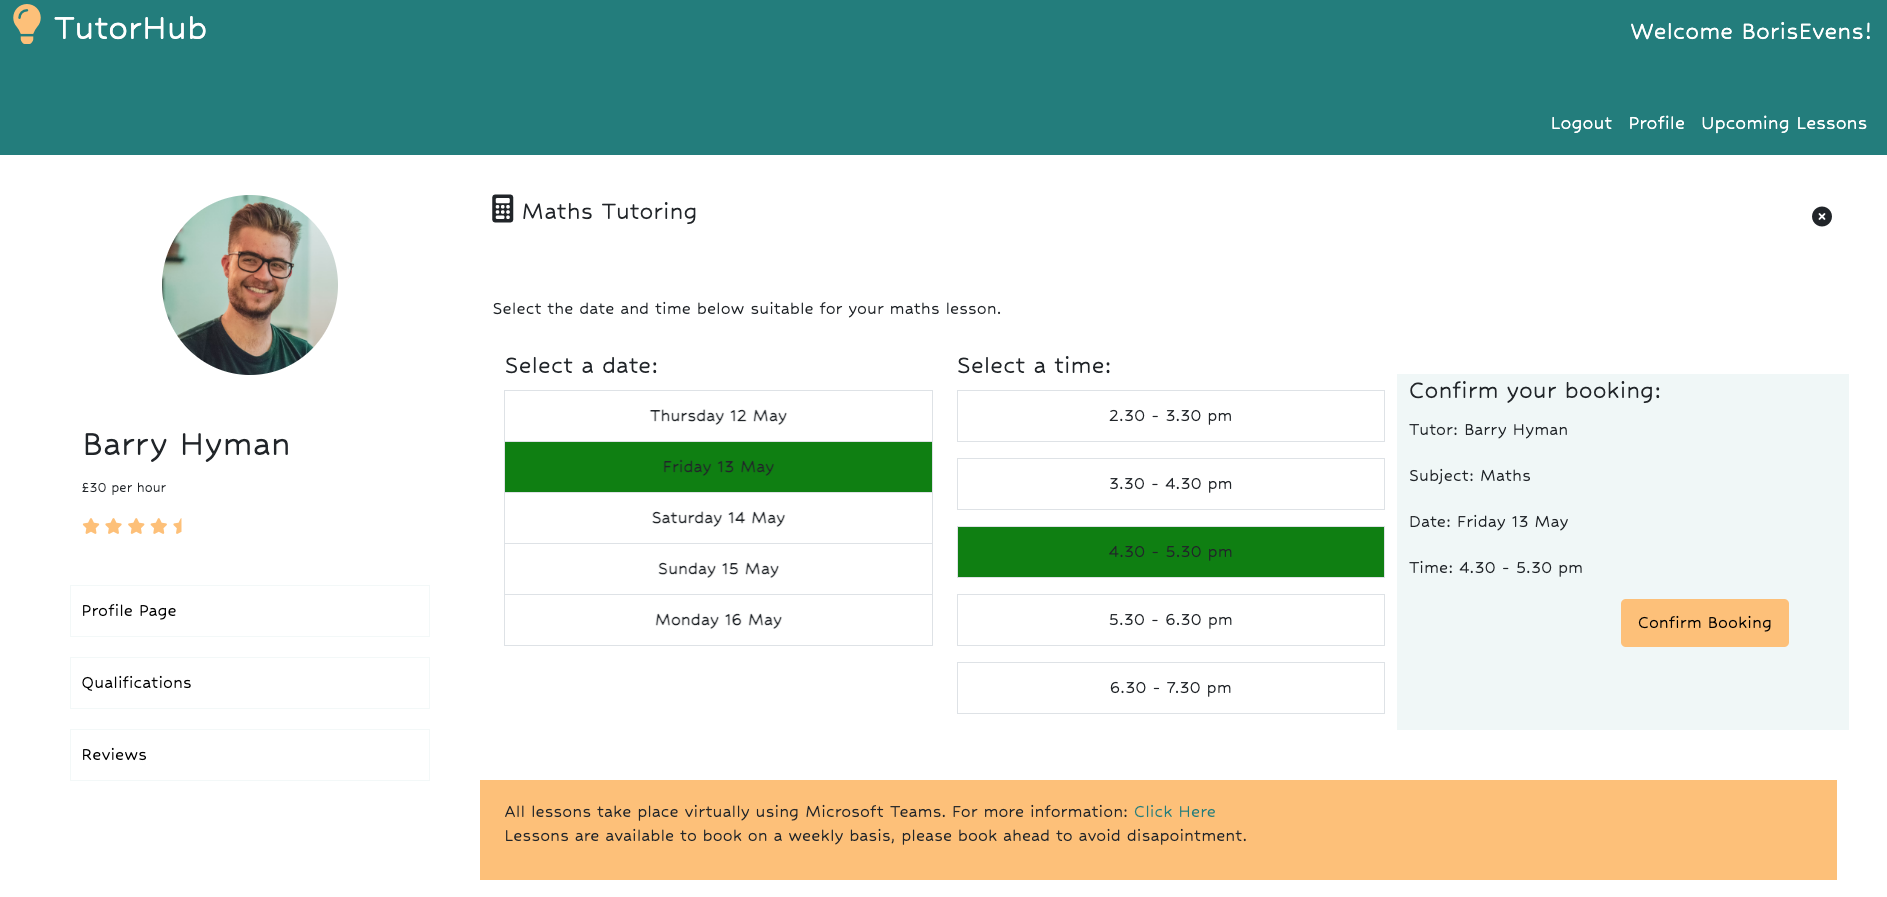
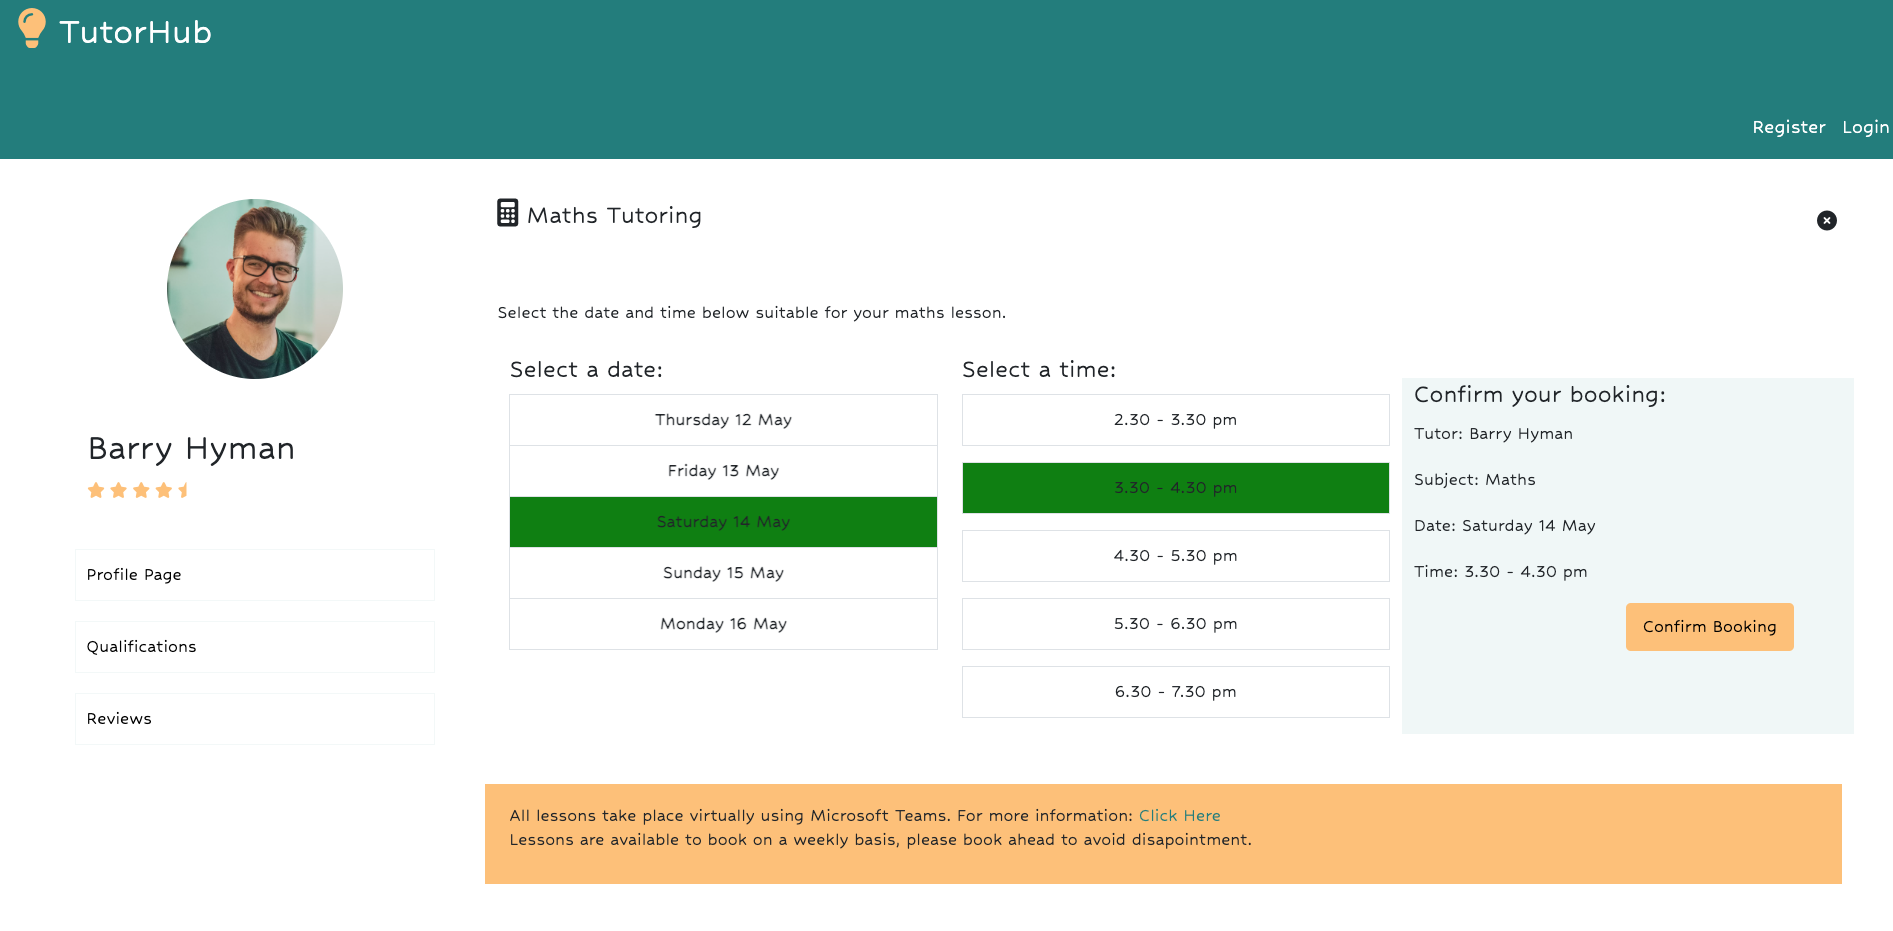
README styling has been added and images have been updated on the README file

diff --git a/tutorprofile/templates/tutorprofile/tutor_two.html b/tutorprofile/templates/tutorprofile/tutor_two.html
@@ -14,7 +14,6 @@
             <div class="row">
                 <div class="col-12 user-info">
                     <h1>Jennifer Roberts</h1>
-                    <p>£20 per hour</p>
                     <i class="fa-solid fa-star"></i>
                     <i class="fa-solid fa-star"></i>
                     <i class="fa-solid fa-star"></i>

diff --git a/tutorprofile/templates/tutorprofile/tutor_two_create_review.html b/tutorprofile/templates/tutorprofile/tutor_two_create_review.html
@@ -15,7 +15,6 @@
             <div class="row">
                 <div class="col-12 user-info">
                     <h1>Jennifer Roberts</h1>
-                    <p>£20 per hour</p>
                     <i class="fa-solid fa-star"></i>
                     <i class="fa-solid fa-star"></i>
                     <i class="fa-solid fa-star"></i>

diff --git a/tutorprofile/templates/tutorprofile/tutor_two_profile.html b/tutorprofile/templates/tutorprofile/tutor_two_profile.html
@@ -14,7 +14,6 @@
             <div class="row">
                 <div class="col-12 user-info">
                     <h1>Jennifer Roberts</h1>
-                    <p>£20 per hour</p>
                     <i class="fa-solid fa-star"></i>
                     <i class="fa-solid fa-star"></i>
                     <i class="fa-solid fa-star"></i>

diff --git a/tutorprofile/templates/tutorprofile/tutor_two_qualifications.html b/tutorprofile/templates/tutorprofile/tutor_two_qualifications.html
@@ -14,7 +14,6 @@
             <div class="row">
                 <div class="col-12 user-info">
                     <h1>Jennifer Roberts</h1>
-                    <p>£20 per hour</p>
                     <i class="fa-solid fa-star"></i>
                     <i class="fa-solid fa-star"></i>
                     <i class="fa-solid fa-star"></i>

diff --git a/tutorprofile/templates/tutorprofile/tutor_two_reviews.html b/tutorprofile/templates/tutorprofile/tutor_two_reviews.html
@@ -14,7 +14,6 @@
             <div class="row">
                 <div class="col-12 user-info">
                     <h1>Jennifer Roberts</h1>
-                    <p>£20 per hour</p>
                     <i class="fa-solid fa-star"></i>
                     <i class="fa-solid fa-star"></i>
                     <i class="fa-solid fa-star"></i>

diff --git a/tutorprofile/templates/tutorprofile/tutor_three.html b/tutorprofile/templates/tutorprofile/tutor_three.html
@@ -14,7 +14,6 @@
             <div class="row">
                 <div class="col-12 user-info">
                     <h1>Mark Macintosh</h1>
-                    <p>£25 per hour</p>
                     <i class="fa-solid fa-star"></i>
                     <i class="fa-solid fa-star"></i>
                     <i class="fa-solid fa-star"></i>

diff --git a/tutorprofile/templates/tutorprofile/tutor_three_create_review.html b/tutorprofile/templates/tutorprofile/tutor_three_create_review.html
@@ -15,7 +15,6 @@
             <div class="row">
                 <div class="col-12 user-info">
                     <h1>Mark Macintosh</h1>
-                    <p>£25 per hour</p>
                     <i class="fa-solid fa-star"></i>
                     <i class="fa-solid fa-star"></i>
                     <i class="fa-solid fa-star"></i>

diff --git a/tutorprofile/templates/tutorprofile/tutor_three_profile.html b/tutorprofile/templates/tutorprofile/tutor_three_profile.html
@@ -14,7 +14,6 @@
             <div class="row">
                 <div class="col-12 user-info">
                     <h1>Mark Macintosh</h1>
-                    <p>£25 per hour</p>
                     <i class="fa-solid fa-star"></i>
                     <i class="fa-solid fa-star"></i>
                     <i class="fa-solid fa-star"></i>

diff --git a/tutorprofile/templates/tutorprofile/tutor_three_qualifications.html b/tutorprofile/templates/tutorprofile/tutor_three_qualifications.html
@@ -14,7 +14,6 @@
             <div class="row">
                 <div class="col-12 user-info">
                     <h1>Mark Macintosh</h1>
-                    <p>£25 per hour</p>
                     <i class="fa-solid fa-star"></i>
                     <i class="fa-solid fa-star"></i>
                     <i class="fa-solid fa-star"></i>

diff --git a/tutorprofile/templates/tutorprofile/tutor_three_reviews.html b/tutorprofile/templates/tutorprofile/tutor_three_reviews.html
@@ -14,7 +14,6 @@
             <div class="row">
                 <div class="col-12 user-info">
                     <h1>Mark Macintosh</h1>
-                    <p>£25 per hour</p>
                     <i class="fa-solid fa-star"></i>
                     <i class="fa-solid fa-star"></i>
                     <i class="fa-solid fa-star"></i>

diff --git a/tutorprofile/templates/tutorprofile/tutor_one.html b/tutorprofile/templates/tutorprofile/tutor_one.html
@@ -14,7 +14,6 @@
             <div class="row">
                 <div class="col-12 user-info">
                     <h1>Barry Hyman</h1>
-                    <p>£30 per hour</p>
                     <i class="fa-solid fa-star"></i>
                     <i class="fa-solid fa-star"></i>
                     <i class="fa-solid fa-star"></i>

diff --git a/tutorprofile/templates/tutorprofile/tutor_one_create_review.html b/tutorprofile/templates/tutorprofile/tutor_one_create_review.html
@@ -15,7 +15,6 @@
             <div class="row">
                 <div class="col-12 user-info">
                     <h1>Barry Hyman</h1>
-                    <p>£30 per hour</p>
                     <i class="fa-solid fa-star"></i>
                     <i class="fa-solid fa-star"></i>
                     <i class="fa-solid fa-star"></i>
